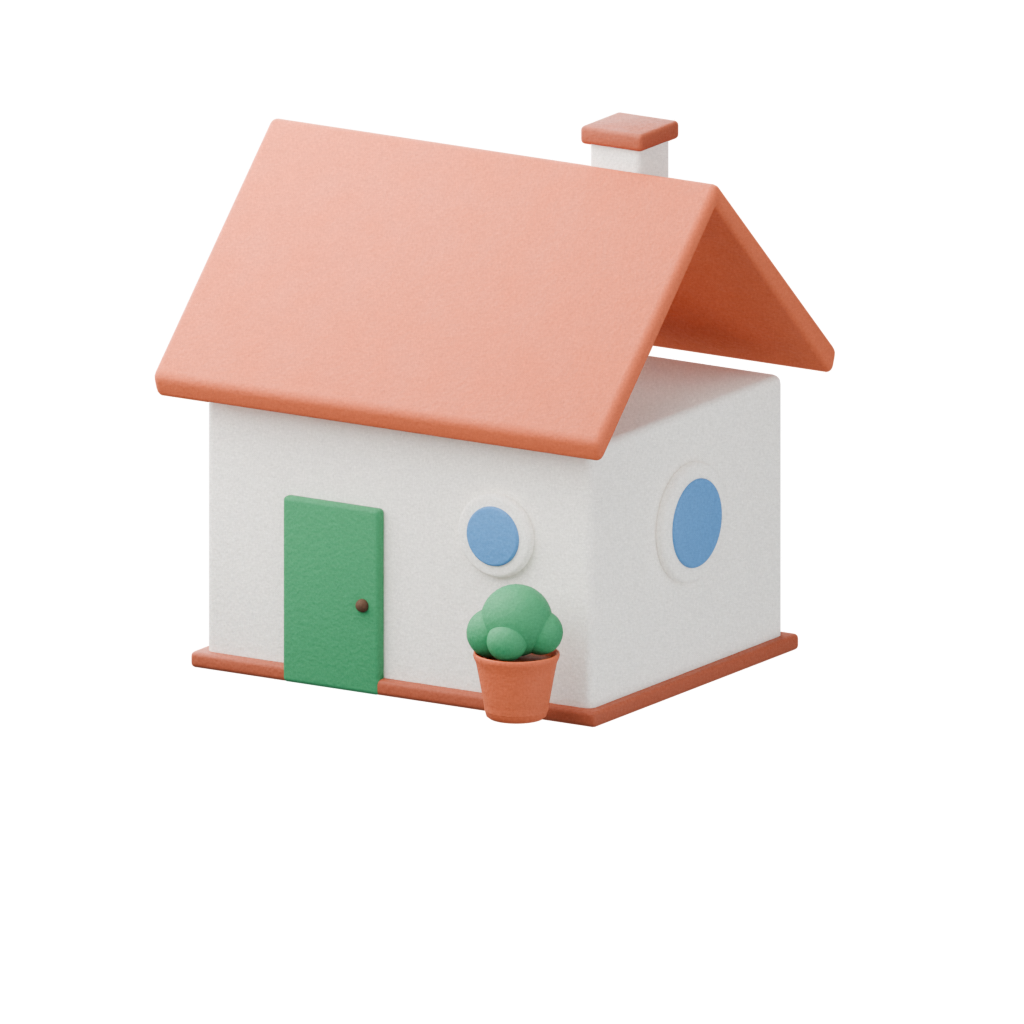
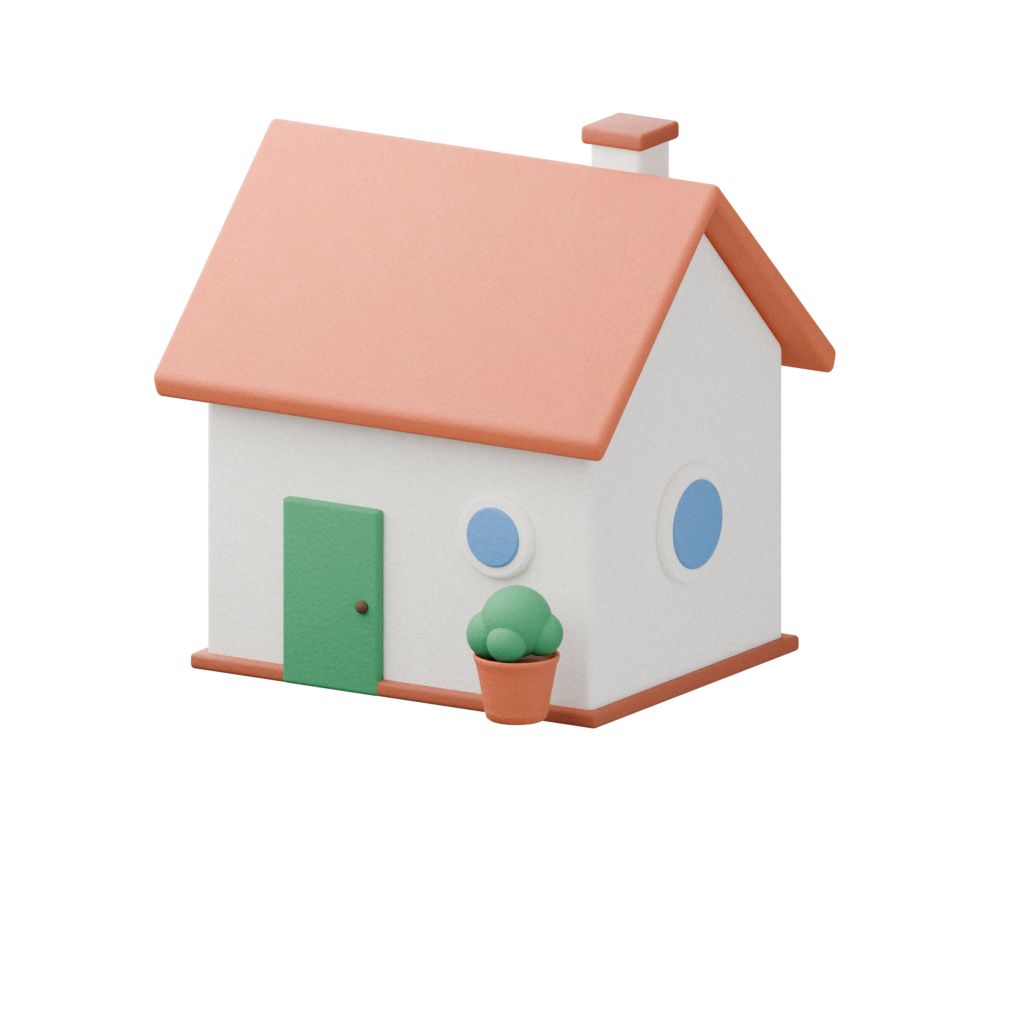
La maison d'argile a ses pignons
Les murs étaient un bloc à toit plat sous un toit posé au-dessus : par les
deux bouts, on voyait sous le toit, et la maison était creuse. Les murs sont
maintenant un prisme à section pentagonale, dont les pointes montent jusque
sous la faîtière, à la hauteur du dessous du toit à l'aplomb du mur.

Claude-Session: https://claude.ai/code/session_01VUr9yENiT4d7ARFyNcZBcd

diff --git a/tool/build_home.py b/tool/build_home.py
@@ -66,6 +66,24 @@ def box(name, center, size, mat, bevel=0.03):
     return mesh(name, verts, faces, mat, bevel=bevel)
 
 
+def walls(name, mat):
+    """Les murs, pignons compris : un prisme a section pentagonale, dont les
+    deux pointes montent jusque sous la faitiere. Sans eux, on voyait sous le
+    toit par les deux bouts, et la maison etait creuse."""
+    x0, x1 = -W / 2, W / 2
+    y0, y1 = -D / 2, D / 2
+    zb, zt = H - 0.02, H + ROOF_H
+    # Le dessous du toit, a l'aplomb du mur : c'est la hauteur des murs.
+    hw = zb + (zt - zb) * OVER / (D / 2 + OVER) - 0.005
+    hr = zt - 0.005
+    sect = [(y0, 0), (y1, 0), (y1, hw), (0, hr), (y0, hw)]
+    verts = [(x0, y, z) for (y, z) in sect] + [(x1, y, z) for (y, z) in sect]
+    n = len(sect)
+    faces = [tuple(range(n)), tuple(range(2 * n - 1, n - 1, -1))]
+    faces += [(i, (i + 1) % n, (i + 1) % n + n, i + n) for i in range(n)]
+    return mesh(name, verts, faces, mat, bevel=0.04)
+
+
 def prism(name, mat):
     """Le toit : un toit a deux pans, faitiere le long de x, avec un debord et
     une epaisseur — une plaque d'argile pliee, pas une feuille."""
@@ -124,7 +142,7 @@ def house():
     ink = material('Encre_4A3528', '4A3528', .76)
 
     # Les murs, sur une plinthe un peu plus large : la maison est posee.
-    box('Murs', (0, 0, H / 2), (W, D, H), cream, bevel=0.04)
+    walls('Murs', cream)
     box('Plinthe', (0, 0, 0.035), (W + 0.10, D + 0.10, 0.07), terra_deep, bevel=0.02)
     prism('Toit', terra)
     # La cheminee, pres de la faitiere, a droite, et qui la depasse.
